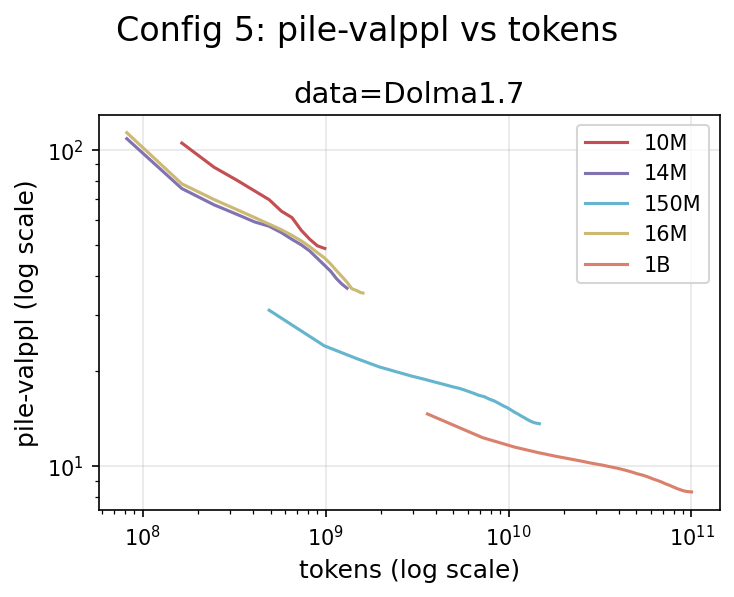
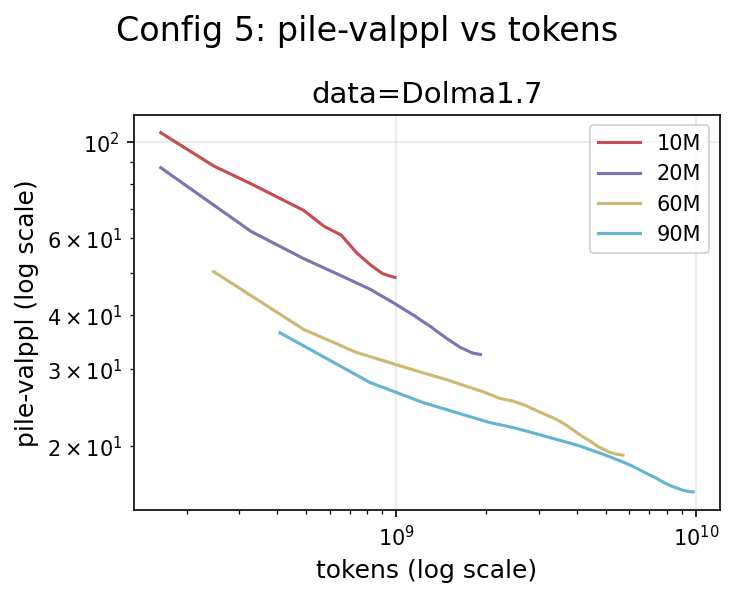
fix the selection of params and ordering cfg 5

diff --git a/scripts/test_plotting.py b/scripts/test_plotting.py
@@ -15,6 +15,7 @@ sys.path.insert(0, str(repo_root / "src"))
 
 from datadec import DataDecide
 from datadec.plotting import ScalingPlotBuilder, ModelComparisonBuilder
+from datadec.model_utils import param_to_numeric
 
 
 def fix_sharey_labels(builder, fm):
@@ -479,7 +480,8 @@ def main():
     # Configuration 5: Single data recipe, more params
     print("\n=== Configuration 5: Single data recipe, more params ===")
     try:
-        all_params = sorted(df["params"].unique())[:5]  # Take first 5 params
+        # Use the same test_params as other configurations, but sorted numerically
+        all_params = sorted(test_params, key=param_to_numeric)
         single_data = [test_data[0]] if test_data else [sorted(df["data"].unique())[0]]
 
         # Example using from_datadecide constructor if we had a DataDecide instance
